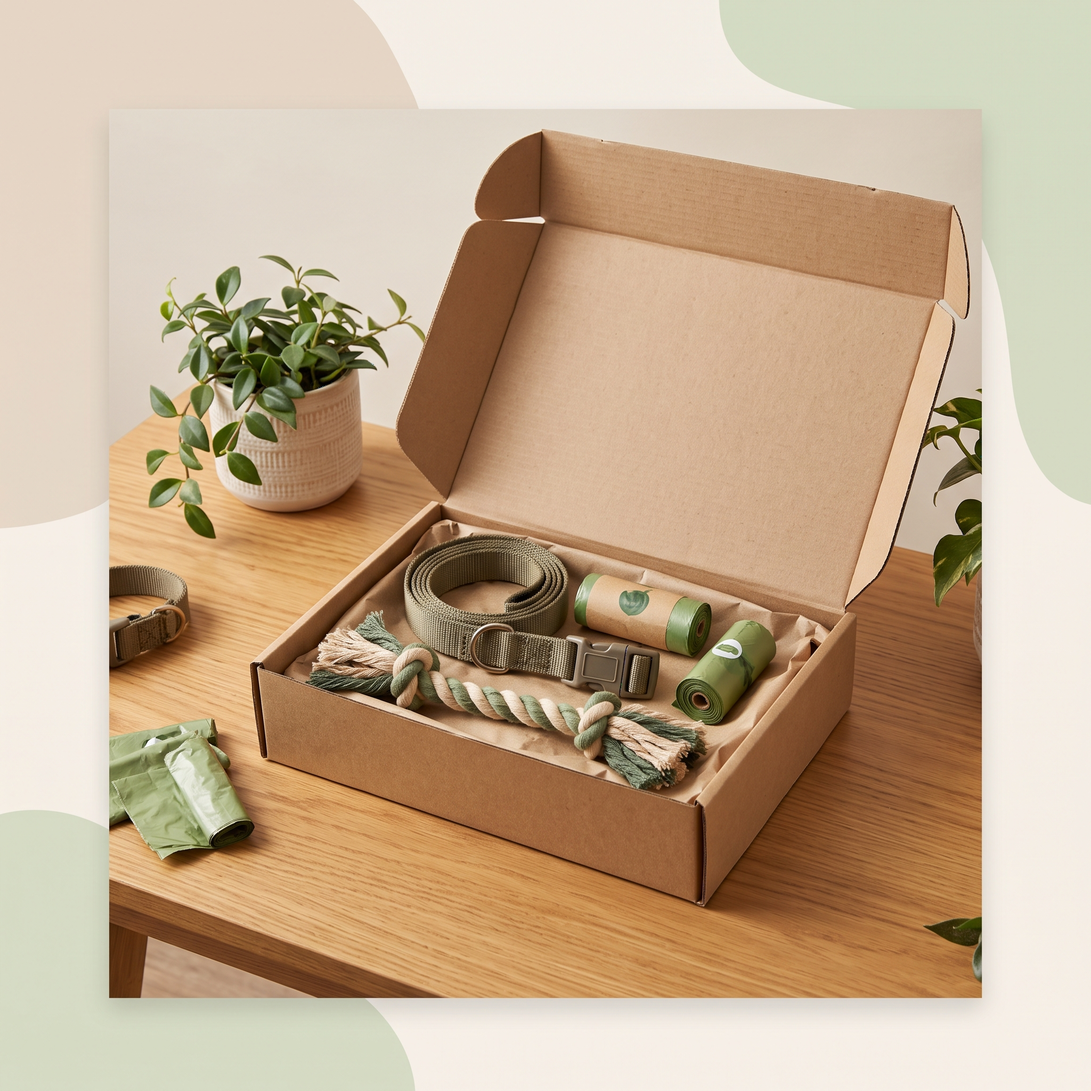
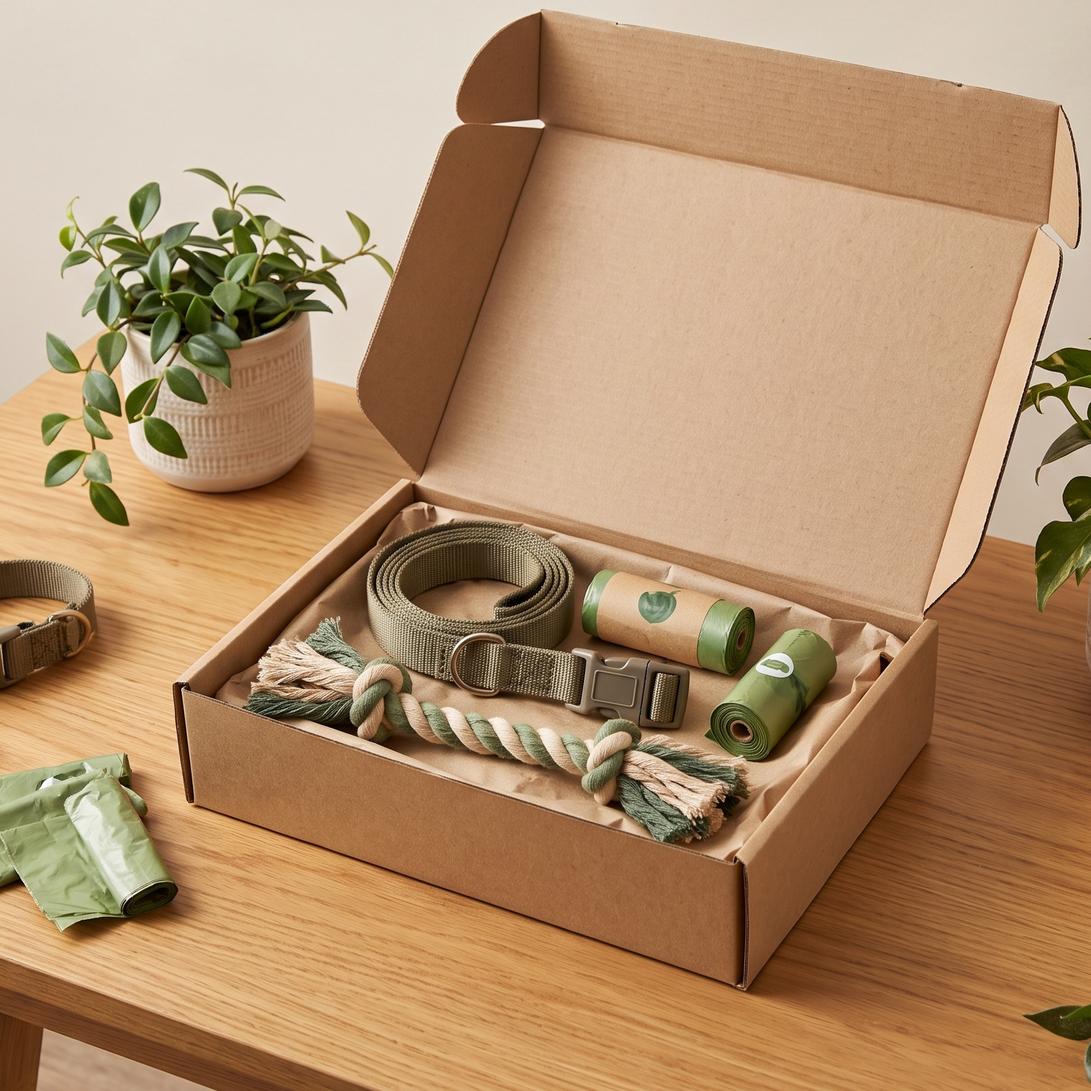
fix: Se estandarizan alturas de imagenes del catalogo

diff --git a/src/tienda/catalogo/catalogo.css b/src/tienda/catalogo/catalogo.css
@@ -268,7 +268,7 @@ body {
 
 .tarjeta-imagen {
     width: 100%;
-    height: 80%;
+    height: 250px;
     background-color: var(--paleta-fondo);
 }
 

diff --git a/src/tienda/catalogo/catalogo.html b/src/tienda/catalogo/catalogo.html
@@ -1,5 +1,5 @@
 <!DOCTYPE html>
-<html lang="en">
+<html lang="es">
 
 <head>
     <meta charset="UTF-8">
